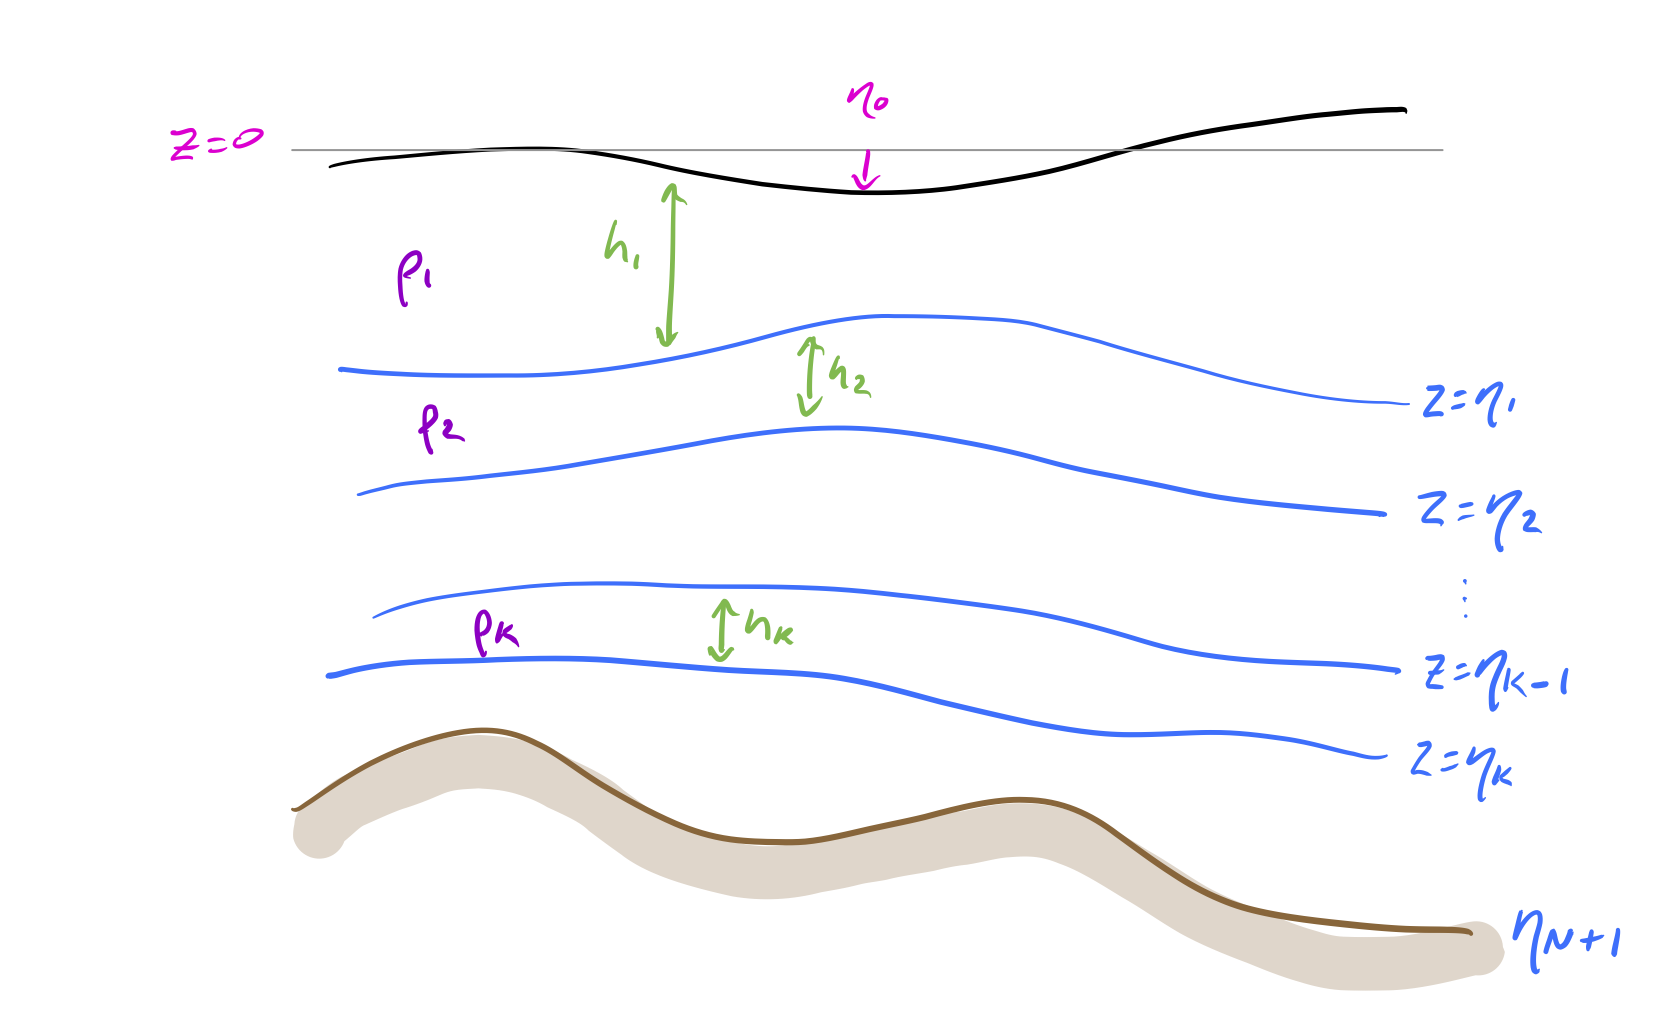
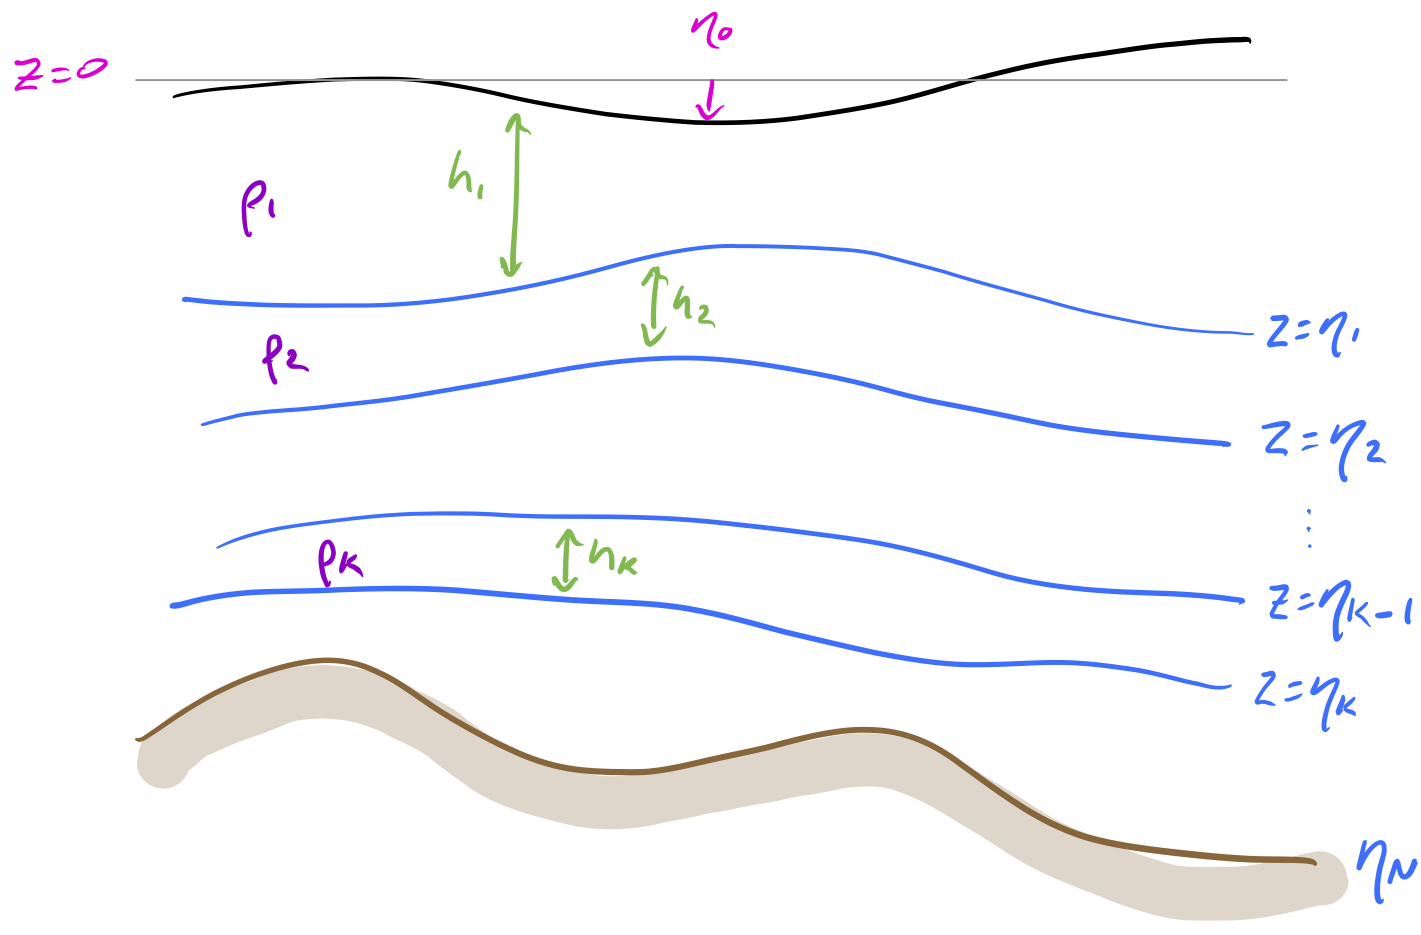
update shallow water notes

diff --git a/documentation/docs/pages/season2.md b/documentation/docs/pages/season2.md
@@ -733,15 +733,16 @@ Why did I show you this? Well, you cannot go and start editing MOM6 code without
 the core tenet of MOM6: keep bitwise reproducbility! I hope this small entry helps you and encourages
 you to go deep into the codebase! 
 
-## Navier Stokes -> stacked shallow water (adiabatic)
+## From Navier Stokes to adiabatic stacked shallow water equations
 
 Date: 28/05/2026.
 
 Presenter: Andrew Kiss (@aekiss). 
 
-Following Vallis
+**Note:** reload this page if the equations aren't displayed correctly.
 
-Also see https://decoding-access-om3--29.org.readthedocs.build/AOMSS_Lecture_Notes/
+I'm following [Vallis' textbook "Atmospheric an Oceanic Fluid Dynamics"](https://www.vallisbook.org/) which you can consult for further details and explanation.
+Also see [these notes](https://decoding-access-om3--29.org.readthedocs.build/AOMSS_Lecture_Notes/), which cover similar material.
 
 ### Navier-Stokes equations
 The full shebang
@@ -757,32 +758,32 @@ $$
 
 is Newton's 2nd law $\mathbf{F} = m\mathbf{a}$ for the acceleration $\mathbf{a}$ of an infinitesimal fluid parcel of mass $m$ subject to a net force $\mathbf{F}$, rearranged as $\mathbf{a} = \mathbf{F}_V/\rho$, where $\mathbf{F}_V$ is the force divided by the parcel volume and $\rho$ is the parcel's density. $\mathbf{a}$ is the parcel's Lagrangian acceleration, so $\mathbf{a} = \frac{D_i\mathbf{v}}{D_it}$, where $\mathbf{v} = (u, v, w)$ is the fluid velocity and $\frac{D_i}{D_it}$ is the material derivative relative to an _inertial_ (i.e. non-rotating, non-accelerating) coordinate frame. Here $p$ is pressure, $\rho$ is density and $\nu$ is the kinematic molecular viscosity.
 
-This 3d momentum equation is equivalent to 3 scalar equations, but has 5 unknowns ($u, v, w, p, \rho$), so to close this system we need 2 more equations. These are an _equation of state_ (e.g. TEOS-10) relating the density to pressure (and temperature $T$ and salinity $S$, in the oceanographic context; in this case additional evolution equations for $T$ and $S$ are also required), and an equation for the _conservation of mass_
+This 3d momentum equation is equivalent to 3 scalar equations, but has 5 unknowns ($u, v, w, p, \rho$), so to close this system we need 2 more equations. These are an _equation of state_ relating the density to pressure (and temperature $T$ and salinity $S$, in the oceanographic context, e.g. TEOS-10; in this case additional evolution equations for $T$ and $S$ are also required), and an equation for the _conservation of mass_
 
 $$
-\frac{\partial\rho}{\partial t}+\nabla\cdot(\rho\mathbf{v}) = 0
+\frac{\partial\rho}{\partial t}+\nabla\cdot(\rho\mathbf{v}) = 0.
 $$
 
 Seawater density varies very little over the range of $p$, $T$ and $S$ in the ocean, and motions are very much slower than the speed of sound (i.e. the Mach number is very small), so to a good approximation the conservation of mass can be written
 
 $$
-\nabla\cdot\mathbf{v} = 0
+\nabla\cdot\mathbf{v} = 0.
 $$
 
 This assumption of incompressibility eliminates sound waves.
 
 ### Navier-Stokes equations in a rotating frame
 
-In oceanography it's more convenient to a use coordinates that rotate with the Earth. To account for this rotation we must include the Coriolis and centrifugal forces.
+In oceanography it's more convenient to a use coordinates that rotate with the Earth. To account for this rotation we must include the Coriolis and centrifugal forces:
 
 $$
-\underbrace{\frac{D_i\mathbf{v}}{D_it}}_\text{Lagrangian acceleration in inertial frame} = \underbrace{\frac{D\mathbf{v}}{Dt}}_\text{Lagrangian acceleration in rotating frame} + \underbrace{2\mathbf{\Omega}\times\textbf{v}}_\text{Coriolis acceleration} + \underbrace{\mathbf{\Omega}\times\mathbf{\Omega}\times\mathbf{r}}_\text{centrifugal acceleration}
+\underbrace{\frac{D_i\mathbf{v}}{D_it}}_\text{Lagrangian acceleration in inertial frame} = \underbrace{\frac{D\mathbf{v}}{Dt}}_\text{Lagrangian acceleration in rotating frame} + \underbrace{2\mathbf{\Omega}\times\mathbf{v}}_\text{Coriolis acceleration} + \underbrace{\mathbf{\Omega}\times\mathbf{\Omega}\times\mathbf{r}}_\text{centrifugal acceleration}
 $$
 
 where $\mathbf{\Omega}$ is Earth's rotation vector and $\mathbf{r}$ is the position vector relative to Earth's centre, and now $\mathbf{v}$ is velocity relative to the rotating Earth. It turns out the centrifugal acceleration is of the same mathematical form as gravity (a conservative vector field), so we can simply redefine $\mathbf{g}$ to include $-\mathbf{\Omega}\times\mathbf{\Omega}\times\mathbf{r}$ and then worry no more about it. This is not the case for the Coriolis acceleration, which we must retain. So we end up with our momentum equation in rotating coordinates
 
 $$
-\underbrace{\frac{D\mathbf{v}}{Dt}}_\text{Lagrangian acceleration in rotating frame} + \underbrace{2\mathbf{\Omega}\times\textbf{v}}_\text{Coriolis acceleration} = \underbrace{\frac{-\nabla p}{\rho}}_\text{pressure gradient} + \underbrace{\nu\nabla^2\mathbf{v}}_\text{molecular viscosity} + \underbrace{\mathbf{g}}_\text{gravity and centrifugal}+ \underbrace{\dots}_\text{any other forces}
+\underbrace{\frac{D\mathbf{v}}{Dt}}_\text{Lagrangian acceleration in rotating frame} + \underbrace{2\mathbf{\Omega}\times\mathbf{v}}_\text{Coriolis acceleration} = \underbrace{\frac{-\nabla p}{\rho}}_\text{pressure gradient} + \underbrace{\nu\nabla^2\mathbf{v}}_\text{molecular viscosity} + \underbrace{\mathbf{g}}_\text{gravity and centrifugal}+ \underbrace{\dots}_\text{any other forces}
 $$
 
 where now $\mathbf{g}$ includes both gravity and the centrifugal acceleration.
@@ -790,22 +791,21 @@ where now $\mathbf{g}$ includes both gravity and the centrifugal acceleration.
 
 ### Primitive equations
 
-The so-called "primitive equations" simplify the Navier-Stokes momentum equation by neglecting terms that are insignificant for large-scale oceanographic motions.
+The so-called "primitive equations" simplify the Navier-Stokes momentum equation by neglecting terms that are insignificant for large-scale oceanographic motions. These approximations are
 
-- hydrostatic
 - shallow-fluid approximation
 - neglect Coriolis acting on $w$
-- Boussinesq
+- hydrostatic balance
+- Boussinesq approximation
 
-
-Although spherical coordinates should be used, for clarity in this presentation we'll adopt Cartesian coordinates with $x$ eastward, $y$ northward and $z$ upward (in the opposite direction to $\mathbf{g}$) relative to some mid-latitude point on Earth's surface. We define unit vectors $\mathbf{i}$, $\mathbf{j}$, $\mathbf{k}$ in the directions of increasing $x$, $y$, $z$, respectively.
+Although spherical coordinates should be used, for clarity we'll adopt Cartesian coordinates with $x$ eastward, $y$ northward and $z$ upward (in the opposite direction to $\mathbf{g}$) relative to some mid-latitude point on Earth's surface. We define unit vectors $\mathbf{i}$, $\mathbf{j}$, $\mathbf{k}$ in the directions of increasing $x$, $y$, $z$, respectively.
 For convenience we use $\mathbf{u} = (u, v)$ to denote the horizontal component of the full three-dimensional velocity vector $\mathbf{v} = (u, v, w)$.
 Molecular viscosity is not a primary concern for us here, so we'll lump viscous forces in with "any other forces" ($\ldots$) from here on.
 
 #### Shallow fluid
 The oceans are much shallower than they are wide (like the thickness of a piece of paper compared to its width), so large-scale motions must be very nearly horizontal, i.e. $w \ll |\mathbf{u}|$.
 
-This allows us to simplify the advection term in the material derivative. The material derivative can be expanded out as
+Amongst other simplifications discussed below, the shallowness of the ocean allows us to simplify the advection term in the material derivative. The material derivative can be expanded out as
 
 $$
 \frac{D\mathbf{v}}{Dt} = \frac{\partial\mathbf{v}}{\partial t} + (\mathbf{v}\cdot\nabla)\mathbf{v} = \frac{\partial\mathbf{v}}{\partial t} + u\frac{\partial\mathbf{v}}{\partial x} + v\frac{\partial\mathbf{v}}{\partial y} + w\frac{\partial\mathbf{v}}{\partial z}
@@ -830,35 +830,145 @@ which we will write as $\frac{D\mathbf{u}}{Dt}$.
 In component form,
 
 $$
-2\mathbf{\Omega}\times\textbf{v} = (2\Omega w\cos\phi - 2\Omega v\sin\phi)\mathbf{i} + 2\Omega u\sin\phi\mathbf{j} + 2\Omega u\cos\phi\mathbf{k}
+2\mathbf{\Omega}\times\mathbf{v} = (2\Omega w\cos\phi - 2\Omega v\sin\phi)\mathbf{i} + 2\Omega u\sin\phi\mathbf{j} - 2\Omega u\cos\phi\mathbf{k}
 $$
 
 where $\Omega = |\mathbf{\Omega}|$ and $\phi$ is latitude. Since $w \ll |\mathbf{u}|$ it is traditional to neglect $2\Omega w\cos\phi$ relative to $2\Omega v\sin\phi$, which is a good approximation except very close to the Equator where $\sin\phi\to 0$, or in situations when $w$ becomes comparable to $|\mathbf{u}|$ (e.g. non-hydrostatic flows). Making this approximation and defining $\mathbf{f} = 2\Omega\sin\phi\mathbf{k}$, the horizontal momentum equation can be written
 
 $$
-\underbrace{\frac{D\mathbf{u}}{Dt}}_\text{Lagrangian acceleration in rotating frame} + \underbrace{\mathbf{f}\times\textbf{u}}_\text{Coriolis acceleration} = \underbrace{\frac{-\nabla p}{\rho}}_\text{pressure gradient}+ \underbrace{\dots}_\text{any other forces}
+\underbrace{\frac{D\mathbf{u}}{Dt}}_\text{Lagrangian acceleration in rotating frame} + \underbrace{\mathbf{f}\times\mathbf{u}}_\text{Coriolis acceleration} = \underbrace{\frac{-\nabla p}{\rho}}_\text{pressure gradient}+ \underbrace{\dots}_\text{any other forces}
 $$
-
 
 #### The hydrostatic approximation
 
 In large-scale oceanic motions the vertical momentum balance is dominated by the vertical pressure gradient and gravity, allowing us to make the hydrostatic approximation
 
 $$
-0 = \underbrace{\frac{-1}{\rho}\frac{dp}{dz}}_\text{pressure gradient}+ \underbrace{\mathbf{g}}_\text{gravity and centrifugal}
+0 = \frac{-1}{\rho}\frac{\partial p}{\partial z} - g
 $$
 
-where $g = |\mathbf{g}|$. This is a very good approximation in nearly all oceanographic circumstances in which horizontal scales of motion are much larger than vertical. Exceptions (non-hydrostatic motions) include deep-water gravity waves, deep convection, and fine submesoscale motions, for which vertical Lagrangian acceleration can also be important. 
+where $g = |\mathbf{g}|$. This diagnostic equation replaces the vertical momentum equation. It is a very good approximation in nearly all oceanographic circumstances in which horizontal scales of motion are much larger than vertical. Some exceptions (non-hydrostatic motions) include deep-water gravity waves, deep convection, and fine submesoscale motions, for which vertical Lagrangian acceleration can also be important.
+
+It is also common practice to treat $g$ as a constant, neglecting the variation with latitude due to its centrifugal component.
 
 #### The Boussinesq approximation
 
-### Shallow-water equations (1 layer)
+Because $\rho$ varies only vary slightly in the ocean, we can approximate it by a constant $\rho_0$ in the horizontal momentum equation. However, the vertical hydrostatic equation must retain the actual $\rho$ in order to retain horizontal gradients in pressure due to variations in density.
 
+#### The primitive equations
 
-### Stacked shallow-water equations ($n$ layers)
+With the above approximations we end up the _primitive equations_. These are the horizontal momentum equation
 
+$$
+\frac{D\mathbf{u}}{Dt} + \mathbf{f}\times\mathbf{u} = \frac{-\nabla p}{\rho_0} + \dots
+$$
+
+the hydrostatic equation
+
+$$
+\frac{\partial p}{\partial z} = -\rho g
+$$
+
+and conservation of mass
+
+$$
+\nabla\cdot\mathbf{u} +\frac{\partial w}{\partial z} = 0.
+$$
+
+Note that in these equations $\mathbf{u}$ can vary continuously with $z$.
+
+### Stacked shallow-water equations
+
+A further approximation, which is very useful in theoretical and idealised studies and also in realistic ocean models (e.g. MOM6), is to treat the ocean as consisting of a stack of $N$ constant-density layers which cannot mix. With sufficiently large $N$ we can get arbitrarily close to the true continuous variation of $\rho$ with depth, but it turns out much of the important dynamics of the ocean can be represented with only a few layers (e.g. $N=2$).
+
+#### Notation
 ![StackedLayers](../assets/StackedLayers.png){: style="height:650px;width:900px"}
 
+We number the layers from the top downwards. Layer $k$ has density $\rho_k$, top interface $\eta_{k-1}$, bottom interface $\eta_{k}$, and thickness $h_k = \eta_{k-1}-\eta_{k}$. The free surface height is therefore $\eta_0$, and the bottom is $\eta_N$. For simplicity we set the Boussinesq reference density to the top layer density, i.e. $\rho_0 = \rho_1$.
+
+#### Momentum equation in each layer
+In the top layer the hydrostatic equation can be integrated in $z$ to get the pressure
+
+$$
+p_1 = \rho_1 g(\eta_0 - z),
+$$
+where we neglect atmospheric pressure. The horizontal pressure gradient is therefore due only to surface slope, and independent of depth within this layer:
+
+$$\nabla_h p_1 = \rho_1 g \nabla_h \eta_0.$$
+
+Consistent with the depth-independence of $\nabla_h p_1$, we can assume that the horizontal velocity $u_1$ is also independent of depth within this layer (note, we are neglecting viscous effects here, e.g. the surface Ekman layer). This strengthens our justification for neglecting $w\frac{\partial \mathbf{u}_1}{\partial z}$ in the horizontal advection, and is exact if the flow is geostrophic ($\mathbf{f}\times\mathbf{u}_1 = -\nabla p_1/\rho_0$).
+
+The shallow-water horizontal momentum equation in layer 1 therefore becomes
+
+$$
+\frac{D\mathbf{u}_1}{Dt} + \mathbf{f}\times\mathbf{u}_1 = -g\nabla\eta_0 + \dots
+$$
+
+where $u_1 = u_1(x,y,t)$.
+
+The pressure in layer 2 is the pressure imposed by layer 1 plus that within layer 2: 
+
+$$
+\begin{aligned}
+p_2 &= \rho_1 g(\eta_0 - \eta_1) + \rho_2 g(\eta_1 - z)\\
+    &= \rho_1 g\eta_0 + \rho_1 g'\eta_1 - \rho_2 gz,
+\end{aligned}
+$$
+
+where $g'_1 = g(\rho_2-\rho_1)/\rho_1$ is the _reduced gravity_ associated with the interface $\eta_1$. The horizontal pressure gradient is again independent of depth
+
+$$
+\nabla_h p_2 = \rho_1 g \nabla_h \eta_0 +  \rho_1 g'_1 \nabla_h \eta_1
+$$
+
+and the layer 2 horizontal momentum equation is
+
+$$
+\frac{D\mathbf{u}_2}{Dt} + \mathbf{f}\times\mathbf{u}_2 = -g\nabla\eta_0 -g'_1\nabla\eta_1 + \dots
+$$
+
+Extending this reasoning, we find that the shallow-water momentum equation for any layer $k$ is
+
+$$
+\frac{D\mathbf{u}_k}{Dt} + \mathbf{f}\times\mathbf{u}_k = -\sum_{i=1}^{k}g'_{i-1}\nabla\eta_{i-1} + \dots
+$$
+
+where $g'_{i-1} = g(\rho_i-\rho_{i-1})/\rho_1$ are the interfacial reduced gravities, $g'_0 = g$ and $u_k = u_k(x,y,t)$.
+
+#### Conservation of mass in each layer
+
+Since $\frac{\partial \mathbf{u}_k}{\partial z}=0$, integrating the conservation of mass through the thickness of layer $k$ gives
+
+$$
+h_k\nabla\cdot\mathbf{u}_k + \left.w_k\right|_{z=\eta_k}^{z=\eta_{k-1}} = 0.
+$$
+
+Since we regard the interfaces as impenetrable (i.e. it is a material surface), at the lower layer interface $\eta_k$, the 3-dimensional velocity $\mathbf{u}_k + \left.w_k\right|_{z=\eta_k}\mathbf{k}$ must be parallel to $\eta_k$ and move vertically with it, so
+
+$$
+\left.w\right|_{z=\eta_k} = \frac{\partial \eta_k}{\partial t} + \mathbf{u}_k\cdot\nabla\eta_k,
+$$
+
+and similarly for the upper interface $\eta_{k-1}$. Therefore, using $h_k = \eta_{k-1}-\eta_{k}$ we get
+
+$$
+\left.w_k\right|_{z=\eta_k}^{z=\eta_{k-1}} = \frac{\partial h_k}{\partial t} + \mathbf{u}_k\cdot\nabla h_k
+$$
+
+so the thickness-integrated mass conservation equation becomes
+$$
+h_k\nabla\cdot\mathbf{u}_k + \frac{\partial h_k}{\partial t} + \mathbf{u}_k\cdot\nabla h_k = 0
+$$
+
+which simplifies to
+
+$$
+\frac{\partial h_k}{\partial t} + \nabla\cdot(h_k\mathbf{u}_k) = 0.
+$$
+
+This just says that the layer becomes thinner where there is horizontal divergence of transport, and it thickens where there is convergence.
+
+Although $w$ varies with $z$ in each layer, we don't need it in either the momentum or mass conservation equation, so these are full discretised in depth, with all variables varying with $z$ only between layers, not within them.
 
 ## Generalised vertical coordinates
 ## Vertical Lagrangian remapping